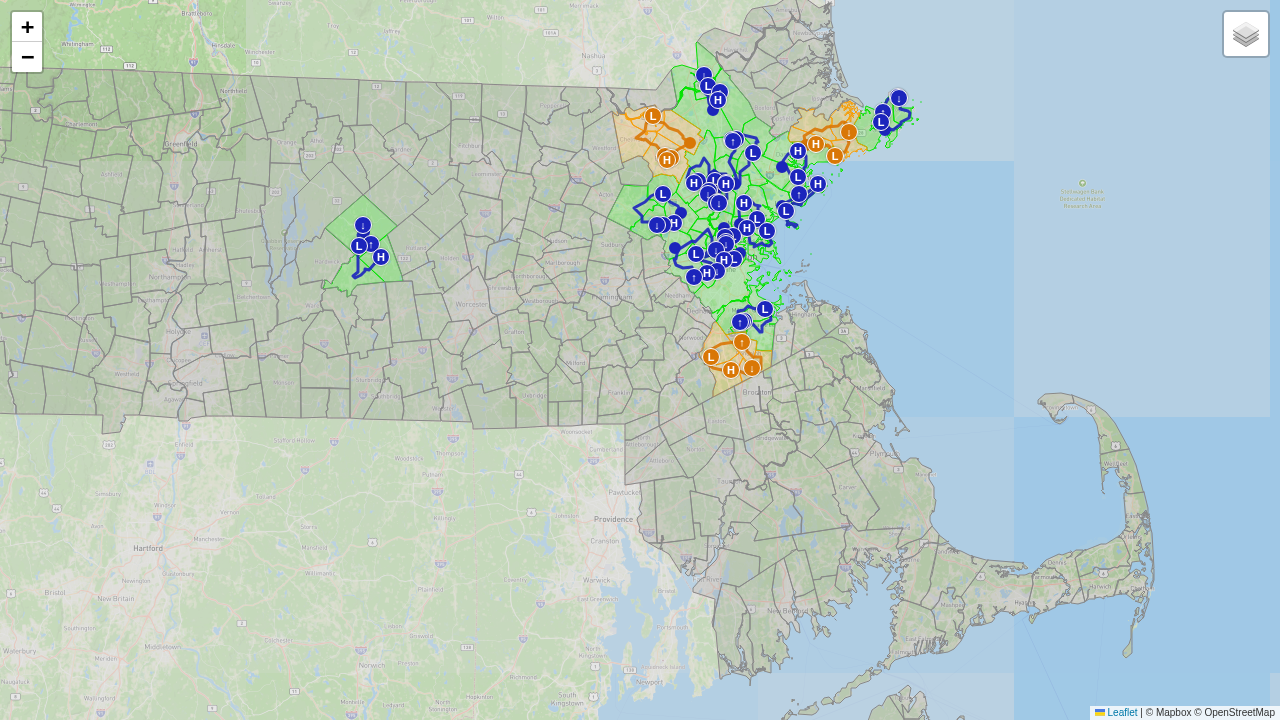
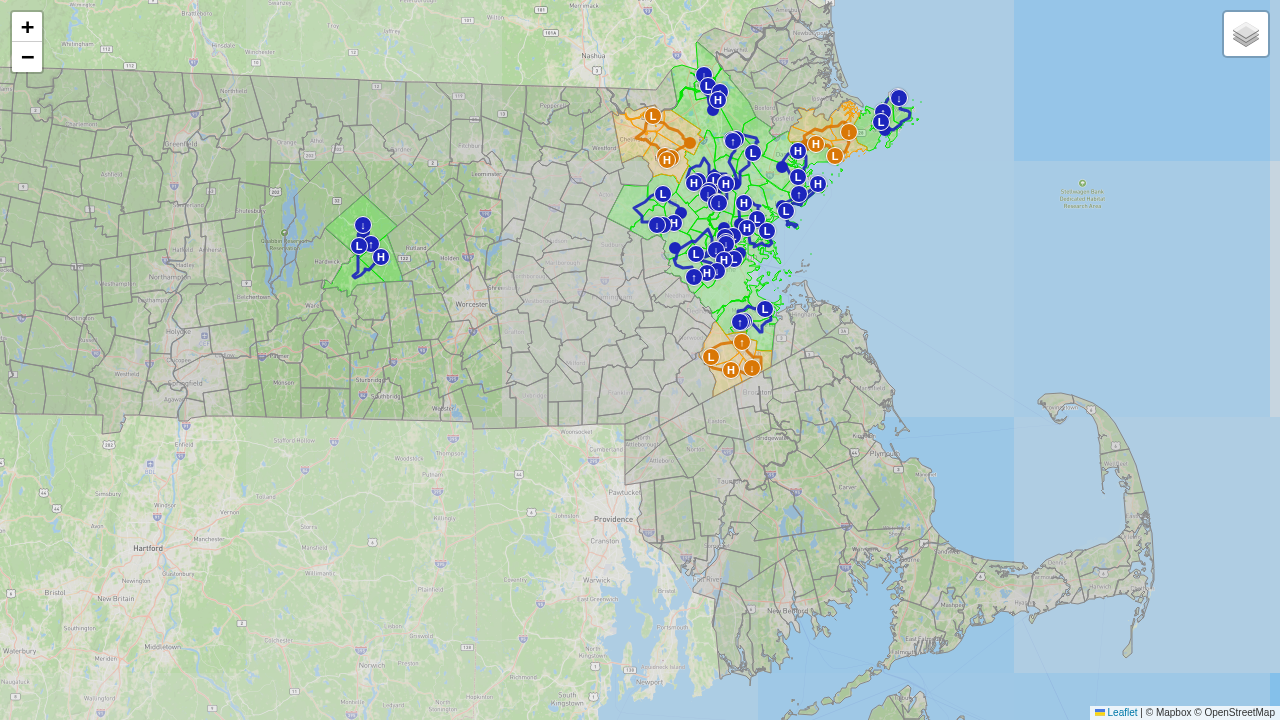
feat: add Street View popups for route layers on map click

diff --git a/completions.py b/completions.py
@@ -1,4 +1,5 @@
 import gzip
+import json
 import os
 from math import cos, radians, sqrt
 from pathlib import Path
@@ -7,6 +8,7 @@ from typing import Any
 import folium
 import geopandas as gpd
 import pandas as pd
+from branca.element import Element
 
 MASS_BBOX = [(41.49, -73.09), (42.80, -69.59)]
 COMPLETIONS_CSV = Path(__file__).parent / "completions.csv"
@@ -230,6 +232,76 @@ def _start_marker(location: tuple[float, float], color: str, tooltip_text: str) 
     )
 
 
+def _add_street_view_click_popups(
+    folium_map: folium.Map, route_layers: list[dict[str, str]]
+) -> None:
+    """Attach click-to-confirm Street View popups to rendered route polylines.
+
+    Folium renders the route geometry as Leaflet `L.polyline` objects inside the
+    generated HTML page. The exact clicked coordinate is only known in the
+    browser, so this helper injects a small JavaScript snippet after map
+    creation. When the user clicks a route line, the script opens a popup at the
+    clicked point and offers explicit links to Google Street View and Google
+    Maps in a new browser tab.
+
+    Parameters
+    ----------
+    folium_map:
+        The map that will receive the injected JavaScript.
+    route_layers:
+        A list of dictionaries describing the rendered route polylines. Each
+        entry should contain the Leaflet variable name under `layer_name` and a
+        human-readable filename under `route_name`.
+    """
+    if not route_layers:
+        return
+
+    layer_data_json = json.dumps(route_layers)
+    map_name = folium_map.get_name()
+    script = f"""
+    window.addEventListener('load', function() {{
+        const routeLayers = {layer_data_json};
+        const mapObject = {map_name};
+
+        routeLayers.forEach((routeInfo) => {{
+            const layer = window[routeInfo.layer_name];
+            if (!layer) {{
+                return;
+            }}
+
+            layer.on('click', function(e) {{
+                const lat = e.latlng.lat.toFixed(6);
+                const lng = e.latlng.lng.toFixed(6);
+                const streetViewUrl = `https://www.google.com/maps/@?api=1&map_action=pano&viewpoint=${{lat}},${{lng}}`;
+                const mapsUrl = `https://www.google.com/maps/search/?api=1&query=${{lat}},${{lng}}`;
+                const popupHtml = `
+                    <div style="min-width:220px;line-height:1.35;">
+                        <strong>${{routeInfo.route_name}}</strong><br>
+                        <span style="font-size:11px;color:#555;">${{lat}}, ${{lng}}</span>
+                        <div style="margin-top:8px;">Open Street View here?</div>
+                        <div style="margin-top:8px;display:flex;gap:8px;flex-wrap:wrap;">
+                            <a href="${{streetViewUrl}}" target="_blank" rel="noopener noreferrer"
+                               style="padding:4px 8px;background:#2563eb;color:white;text-decoration:none;border-radius:4px;">
+                                Street View
+                            </a>
+                            <a href="${{mapsUrl}}" target="_blank" rel="noopener noreferrer"
+                               style="padding:4px 8px;background:#f3f4f6;color:#111827;text-decoration:none;border-radius:4px;border:1px solid #d1d5db;">
+                                Maps
+                            </a>
+                        </div>
+                    </div>`;
+
+                L.popup({{maxWidth: 260}})
+                    .setLatLng(e.latlng)
+                    .setContent(popupHtml)
+                    .openOn(mapObject);
+            }});
+        }});
+    }});
+    """
+    folium_map.get_root().script.add_child(Element(script))
+
+
 def _build_route_layers(gpx_path: str, track_points: gpd.GeoDataFrame, route_is_completed: bool) -> list[Any]:
     filename = Path(gpx_path).name
     line_color = ROUTE_COMPLETED_COLOR if route_is_completed else ROUTE_PENDING_COLOR
@@ -342,17 +414,22 @@ def create_city_map() -> folium.Map:
     not_completed_track_grp = folium.FeatureGroup(name="planned tracks")
     route_paths = CDF[CDF["gpx_path"].notna()]["gpx_path"].unique()
     track_points_by_gpx = {gpx: _load_track_points(gpx) for gpx in route_paths}
+    street_view_routes: list[dict[str, str]] = []
 
     for gpx in route_paths:
         print("Adding ", gpx, " to the map...", sep="")
         route_is_completed = ROUTE_COMPLETION.get(gpx, False)
         route_layers = _build_route_layers(gpx, track_points_by_gpx[gpx], route_is_completed)
         target_group = completed_track_grp if route_is_completed else not_completed_track_grp
+        route_name = Path(gpx).name
         for route_layer in route_layers:
             target_group.add_child(route_layer)
+            if isinstance(route_layer, folium.PolyLine):
+                street_view_routes.append({"layer_name": route_layer.get_name(), "route_name": route_name})
 
     completed_track_grp.add_to(folium_map)
     not_completed_track_grp.add_to(folium_map)
+    _add_street_view_click_popups(folium_map, street_view_routes)
 
     folium.LayerControl().add_to(folium_map)
     return folium_map
